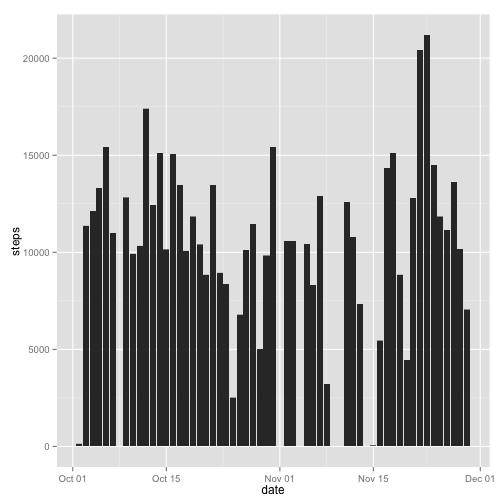
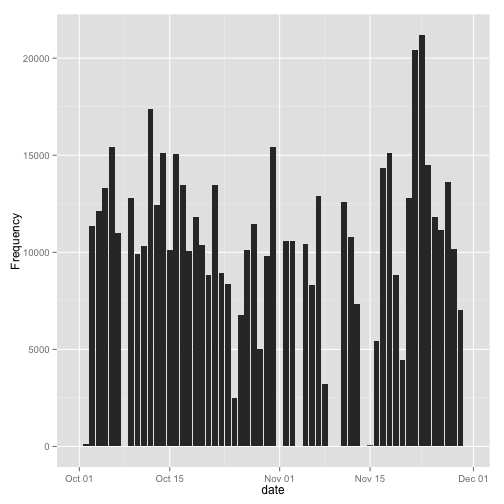
Modified code to generate total steps histogram, added code to calculate mean and median.

diff --git a/PA1_template.html b/PA1_template.html
@@ -221,27 +221,6 @@ imputed)</p></li>
 (Missing values imputed)</p></li>
 </ol>
 
-<h2>Software Environment</h2>
-
-<pre><code class="r">sessionInfo()
-</code></pre>
-
-<pre><code>## R version 3.0.3 (2014-03-06)
-## Platform: x86_64-apple-darwin10.8.0 (64-bit)
-## 
-## locale:
-## [1] en_US.UTF-8/en_US.UTF-8/en_US.UTF-8/C/en_US.UTF-8/en_US.UTF-8
-## 
-## attached base packages:
-## [1] stats     graphics  grDevices utils     datasets  methods   base     
-## 
-## other attached packages:
-## [1] knitr_1.6
-## 
-## loaded via a namespace (and not attached):
-## [1] evaluate_0.5.5 formatR_0.10   stringr_0.6.2  tools_3.0.3
-</code></pre>
-
 <h2>Loading and preprocessing the data</h2>
 
 <h3>Download data and read from csv file into data frame</h3>
@@ -298,24 +277,61 @@ head(stepData)
 
 <h2>What is mean total number of steps taken per day?</h2>
 
-<p>Load ggplot2 package for graphics generation</p>
+<p>Load ggplot2 package for graphics generation
+Load plyr package for ddply function</p>
 
 <pre><code class="r">library(ggplot2)
+library(plyr)
 </code></pre>
 
 <p>Generate histogram of total number of steps taken per day</p>
 
-<pre><code class="r">grob &lt;- ggplot(stepData, aes(x = date, y = steps)) + geom_bar(stat = &quot;identity&quot;)  
-suppressWarnings(print(grob))
+<pre><code class="r">totalSteps &lt;- ddply(stepData, c(&quot;date&quot;),summarize,  
+                    Frequency = sum(steps, na.rm = TRUE))
+grob &lt;- ggplot(totalSteps, aes(x = date, y = Frequency)) + geom_bar(stat = &quot;identity&quot;)
+print(grob)
 </code></pre>
 
[2 lines of base64/hex data omitted]
+
+<p>Calculate mean and median total number of steps taken per day</p>
+
+<pre><code class="r">theMean &lt;- mean(totalSteps$Frequency)
+theMedian &lt;- median(totalSteps$Frequency)
+</code></pre>
+
+<p>The mean total number of steps taken per day is 9354.2295<br/>
+The median total number of steps taken pre day is 10395</p>
 
 <h2>What is the average daily activity pattern?</h2>
 
 <h2>Imputing missing values</h2>
 
 <h2>Are there differences in activity patterns between weekdays and weekends?</h2>
+
+<h2>Software Environment</h2>
+
+<pre><code class="r">sessionInfo()
+</code></pre>
+
+<pre><code>## R version 3.0.3 (2014-03-06)
+## Platform: x86_64-apple-darwin10.8.0 (64-bit)
+## 
+## locale:
+## [1] en_US.UTF-8/en_US.UTF-8/en_US.UTF-8/C/en_US.UTF-8/en_US.UTF-8
+## 
+## attached base packages:
+## [1] stats     graphics  grDevices utils     datasets  methods   base     
+## 
+## other attached packages:
+## [1] plyr_1.8.1    ggplot2_1.0.0 knitr_1.6    
+## 
+## loaded via a namespace (and not attached):
+##  [1] colorspace_1.2-4 digest_0.6.4     evaluate_0.5.5   formatR_0.10    
+##  [5] grid_3.0.3       gtable_0.1.2     labeling_0.2     MASS_7.3-33     
+##  [9] munsell_0.4.2    proto_0.3-10     Rcpp_0.11.2      reshape2_1.4    
+## [13] scales_0.2.4     stringr_0.6.2    tools_3.0.3
+</code></pre>
 
 </body>
 

diff --git a/PA1_template.md b/PA1_template.md
@@ -40,30 +40,6 @@ imputed)
 3. Are there differences in activity patterns between weekdays and weekends?  
 (Missing values imputed)
 
-## Software Environment 
-
-
-```r
-sessionInfo()
-```
-
-```
-## R version 3.0.3 (2014-03-06)
-## Platform: x86_64-apple-darwin10.8.0 (64-bit)
-## 
-## locale:
-## [1] en_US.UTF-8/en_US.UTF-8/en_US.UTF-8/C/en_US.UTF-8/en_US.UTF-8
-## 
-## attached base packages:
-## [1] stats     graphics  grDevices utils     datasets  methods   base     
-## 
-## other attached packages:
-## [1] knitr_1.6
-## 
-## loaded via a namespace (and not attached):
-## [1] evaluate_0.5.5 formatR_0.10   stringr_0.6.2  tools_3.0.3
-```
-
 ## Loading and preprocessing the data
 
 ### Download data and read from csv file into data frame
@@ -134,28 +110,68 @@ stepData$date <- as.Date(stepData$date)
 ## What is mean total number of steps taken per day?
 
 Load ggplot2 package for graphics generation
+Load plyr package for ddply function
 
 
 ```r
 library(ggplot2)
+library(plyr)
 ```
 
 Generate histogram of total number of steps taken per day
 
 
 ```r
-grob <- ggplot(stepData, aes(x = date, y = steps)) + geom_bar(stat = "identity")  
-suppressWarnings(print(grob))
+totalSteps <- ddply(stepData, c("date"),summarize,  
+                    Frequency = sum(steps, na.rm = TRUE))
+grob <- ggplot(totalSteps, aes(x = date, y = Frequency)) + geom_bar(stat = "identity")
+print(grob)
 ```
 
 ![plot of chunk totalStepsPerDay](figure/totalStepsPerDay.png) 
 
+Calculate mean and median total number of steps taken per day
+
+
+```r
+theMean <- mean(totalSteps$Frequency)
+theMedian <- median(totalSteps$Frequency)
+```
+
+The mean total number of steps taken per day is 9354.2295   
+The median total number of steps taken pre day is 10395
+
 ## What is the average daily activity pattern?
-
-
 
 ## Imputing missing values
 
 
 
 ## Are there differences in activity patterns between weekdays and weekends?
+
+## Software Environment 
+
+
+```r
+sessionInfo()
+```
+
+```
+## R version 3.0.3 (2014-03-06)
+## Platform: x86_64-apple-darwin10.8.0 (64-bit)
+## 
+## locale:
+## [1] en_US.UTF-8/en_US.UTF-8/en_US.UTF-8/C/en_US.UTF-8/en_US.UTF-8
+## 
+## attached base packages:
+## [1] stats     graphics  grDevices utils     datasets  methods   base     
+## 
+## other attached packages:
+## [1] plyr_1.8.1    ggplot2_1.0.0 knitr_1.6    
+## 
+## loaded via a namespace (and not attached):
+##  [1] colorspace_1.2-4 digest_0.6.4     evaluate_0.5.5   formatR_0.10    
+##  [5] grid_3.0.3       gtable_0.1.2     labeling_0.2     MASS_7.3-33     
+##  [9] munsell_0.4.2    proto_0.3-10     Rcpp_0.11.2      reshape2_1.4    
+## [13] scales_0.2.4     stringr_0.6.2    tools_3.0.3
+```
